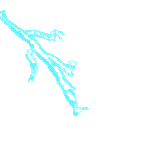
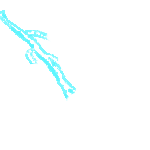
New lightning from both sides

diff --git a/IceBlink2/ScreenMainMap.cs b/IceBlink2/ScreenMainMap.cs
@@ -1056,11 +1056,29 @@ namespace IceBlink2
 
                         gv.mod.currentArea.fullScreenAnimationFrameCounter1 += 1;
                     }
+
+                    if (gv.mod.currentArea.numberOfCyclesPerOccurence1 < 0)
+                    {
+                        int counterLimit = gv.mod.currentArea.numberOfCyclesPerOccurence1 * -1;
+                        if (gv.mod.currentArea.changeFrameCounter1 >= counterLimit)
+                        {
+                            //turn the animation off, in common code's doudate method a chance per turn is rolled for turning on again
+                            gv.mod.currentArea.fullScreenEffectLayerIsActive1 = false;
+                            //counts how often/long the aniamtion is displayed before stop
+                            gv.mod.currentArea.cycleCounter1 = 0;
+                            //just keeping track how often render calls have run through
+                            gv.mod.currentArea.fullScreenAnimationFrameCounter1 = 0;
+                            //for changing a shape changing anim
+                            gv.mod.currentArea.changeCounter1 = 0;
+                            //for changing a shape changing anim
+                            gv.mod.currentArea.changeFrameCounter1 = 1;
+                        }
+                    }
                     #endregion
 
                     //if (gv.mod.currentArea.fullScreenEffectLayerIsActive1 == true)
                     //{
-                        float fullScreenEffectOpacity = 1f;
+                    float fullScreenEffectOpacity = 1f;
                         #region opacity code
                         if (gv.mod.currentArea.useCyclicFade1)
                         {
@@ -1946,6 +1964,23 @@ namespace IceBlink2
                         }
 
                         gv.mod.currentArea.fullScreenAnimationFrameCounter2 += 1;
+                    }
+                    if (gv.mod.currentArea.numberOfCyclesPerOccurence2 < 0)
+                    {
+                        int counterLimit = gv.mod.currentArea.numberOfCyclesPerOccurence2 * -1;
+                        if (gv.mod.currentArea.changeFrameCounter2 >= counterLimit)
+                        {
+                            //turn the animation off, in common code's doudate method a chance per turn is rolled for turning on again
+                            gv.mod.currentArea.fullScreenEffectLayerIsActive2 = false;
+                            //counts how often/long the aniamtion is displayed before stop
+                            gv.mod.currentArea.cycleCounter2 = 0;
+                            //just keeping track how often render calls have run through
+                            gv.mod.currentArea.fullScreenAnimationFrameCounter2 = 0;
+                            //for changing a shape changing anim
+                            gv.mod.currentArea.changeCounter2 = 0;
+                            //for changing a shape changing anim
+                            gv.mod.currentArea.changeFrameCounter2 = 1;
+                        }
                     }
                     #endregion
 
@@ -2838,6 +2873,24 @@ namespace IceBlink2
 
                         gv.mod.currentArea.fullScreenAnimationFrameCounter3 += 1;
                     }
+
+                    if (gv.mod.currentArea.numberOfCyclesPerOccurence3 < 0)
+                    {
+                        int counterLimit = gv.mod.currentArea.numberOfCyclesPerOccurence3 * -1;
+                        if (gv.mod.currentArea.changeFrameCounter3 >= counterLimit)
+                        {
+                            //turn the animation off, in common code's doudate method a chance per turn is rolled for turning on again
+                            gv.mod.currentArea.fullScreenEffectLayerIsActive3 = false;
+                            //counts how often/long the aniamtion is displayed before stop
+                            gv.mod.currentArea.cycleCounter3 = 0;
+                            //just keeping track how often render calls have run through
+                            gv.mod.currentArea.fullScreenAnimationFrameCounter3 = 0;
+                            //for changing a shape changing anim
+                            gv.mod.currentArea.changeCounter3 = 0;
+                            //for changing a shape changing anim
+                            gv.mod.currentArea.changeFrameCounter3 = 1;
+                        }
+                    }
                     #endregion
 
                     //if (gv.mod.currentArea.fullScreenEffectLayerIsActive3 == true)
@@ -3729,6 +3782,24 @@ namespace IceBlink2
 
                         gv.mod.currentArea.fullScreenAnimationFrameCounter4 += 1;
                     }
+
+                    if (gv.mod.currentArea.numberOfCyclesPerOccurence4 < 0)
+                    {
+                        int counterLimit = gv.mod.currentArea.numberOfCyclesPerOccurence4 * -1;
+                        if (gv.mod.currentArea.changeFrameCounter4 >= counterLimit)
+                        {
+                            //turn the animation off, in common code's doudate method a chance per turn is rolled for turning on again
+                            gv.mod.currentArea.fullScreenEffectLayerIsActive4 = false;
+                            //counts how often/long the aniamtion is displayed before stop
+                            gv.mod.currentArea.cycleCounter4 = 0;
+                            //just keeping track how often render calls have run through
+                            gv.mod.currentArea.fullScreenAnimationFrameCounter4 = 0;
+                            //for changing a shape changing anim
+                            gv.mod.currentArea.changeCounter4 = 0;
+                            //for changing a shape changing anim
+                            gv.mod.currentArea.changeFrameCounter4 = 1;
+                        }
+                    }
                     #endregion
 
                     //if (gv.mod.currentArea.fullScreenEffectLayerIsActive4 == true)
@@ -4619,6 +4690,23 @@ namespace IceBlink2
                         }
 
                         gv.mod.currentArea.fullScreenAnimationFrameCounter5 += 1;
+                    }
+                    if (gv.mod.currentArea.numberOfCyclesPerOccurence5 < 0)
+                    {
+                        int counterLimit = gv.mod.currentArea.numberOfCyclesPerOccurence5 * -1;
+                        if (gv.mod.currentArea.changeFrameCounter5 >= counterLimit)
+                        {
+                            //turn the animation off, in common code's doudate method a chance per turn is rolled for turning on again
+                            gv.mod.currentArea.fullScreenEffectLayerIsActive5 = false;
+                            //counts how often/long the aniamtion is displayed before stop
+                            gv.mod.currentArea.cycleCounter5 = 0;
+                            //just keeping track how often render calls have run through
+                            gv.mod.currentArea.fullScreenAnimationFrameCounter5 = 0;
+                            //for changing a shape changing anim
+                            gv.mod.currentArea.changeCounter5 = 0;
+                            //for changing a shape changing anim
+                            gv.mod.currentArea.changeFrameCounter5 = 1;
+                        }
                     }
                     #endregion
 
@@ -5517,6 +5605,23 @@ namespace IceBlink2
 
                         gv.mod.currentArea.fullScreenAnimationFrameCounter6 += 1;
                     }
+                    if (gv.mod.currentArea.numberOfCyclesPerOccurence6 < 0)
+                    {
+                        int counterLimit = gv.mod.currentArea.numberOfCyclesPerOccurence6 * -1;
+                        if (gv.mod.currentArea.changeFrameCounter6 >= counterLimit)
+                        {
+                            //turn the animation off, in common code's doudate method a chance per turn is rolled for turning on again
+                            gv.mod.currentArea.fullScreenEffectLayerIsActive6 = false;
+                            //counts how often/long the aniamtion is displayed before stop
+                            gv.mod.currentArea.cycleCounter6 = 0;
+                            //just keeping track how often render calls have run through
+                            gv.mod.currentArea.fullScreenAnimationFrameCounter6 = 0;
+                            //for changing a shape changing anim
+                            gv.mod.currentArea.changeCounter6 = 0;
+                            //for changing a shape changing anim
+                            gv.mod.currentArea.changeFrameCounter6 = 1;
+                        }
+                    }
                     #endregion
 
                     //if (gv.mod.currentArea.fullScreenEffectLayerIsActive6 == true)
@@ -6411,6 +6516,24 @@ namespace IceBlink2
                         }
 
                         gv.mod.currentArea.fullScreenAnimationFrameCounter7 += 1;
+                    }
+
+                    if (gv.mod.currentArea.numberOfCyclesPerOccurence7 < 0)
+                    {
+                        int counterLimit = gv.mod.currentArea.numberOfCyclesPerOccurence7 * -1;
+                        if (gv.mod.currentArea.changeFrameCounter7 >= counterLimit)
+                        {
+                            //turn the animation off, in common code's doudate method a chance per turn is rolled for turning on again
+                            gv.mod.currentArea.fullScreenEffectLayerIsActive7 = false;
+                            //counts how often/long the aniamtion is displayed before stop
+                            gv.mod.currentArea.cycleCounter7 = 0;
+                            //just keeping track how often render calls have run through
+                            gv.mod.currentArea.fullScreenAnimationFrameCounter7 = 0;
+                            //for changing a shape changing anim
+                            gv.mod.currentArea.changeCounter7 = 0;
+                            //for changing a shape changing anim
+                            gv.mod.currentArea.changeFrameCounter7 = 1;
+                        }
                     }
                     #endregion
 
@@ -7307,6 +7430,24 @@ namespace IceBlink2
 
                         gv.mod.currentArea.fullScreenAnimationFrameCounter8 += 1;
                     }
+
+                    if (gv.mod.currentArea.numberOfCyclesPerOccurence8 < 0)
+                    {
+                        int counterLimit = gv.mod.currentArea.numberOfCyclesPerOccurence8 * -1;
+                        if (gv.mod.currentArea.changeFrameCounter8 >= counterLimit)
+                        {
+                            //turn the animation off, in common code's doudate method a chance per turn is rolled for turning on again
+                            gv.mod.currentArea.fullScreenEffectLayerIsActive8 = false;
+                            //counts how often/long the aniamtion is displayed before stop
+                            gv.mod.currentArea.cycleCounter8 = 0;
+                            //just keeping track how often render calls have run through
+                            gv.mod.currentArea.fullScreenAnimationFrameCounter8 = 0;
+                            //for changing a shape changing anim
+                            gv.mod.currentArea.changeCounter8 = 0;
+                            //for changing a shape changing anim
+                            gv.mod.currentArea.changeFrameCounter8 = 1;
+                        }
+                    }
                     #endregion
 
                     //if (gv.mod.currentArea.fullScreenEffectLayerIsActive8 == true)
@@ -8201,6 +8342,24 @@ namespace IceBlink2
                         }
 
                         gv.mod.currentArea.fullScreenAnimationFrameCounter9 += 1;
+                    }
+
+                    if (gv.mod.currentArea.numberOfCyclesPerOccurence9 < 0)
+                    {
+                        int counterLimit = gv.mod.currentArea.numberOfCyclesPerOccurence9 * -1;
+                        if (gv.mod.currentArea.changeFrameCounter9 >= counterLimit)
+                        {
+                            //turn the animation off, in common code's doudate method a chance per turn is rolled for turning on again
+                            gv.mod.currentArea.fullScreenEffectLayerIsActive9 = false;
+                            //counts how often/long the aniamtion is displayed before stop
+                            gv.mod.currentArea.cycleCounter9 = 0;
+                            //just keeping track how often render calls have run through
+                            gv.mod.currentArea.fullScreenAnimationFrameCounter9 = 0;
+                            //for changing a shape changing anim
+                            gv.mod.currentArea.changeCounter9 = 0;
+                            //for changing a shape changing anim
+                            gv.mod.currentArea.changeFrameCounter9 = 1;
+                        }
                     }
                     #endregion
 
